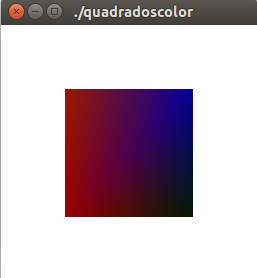
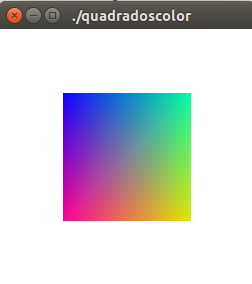
Lab1

Changed region(s): [[0.25, 0.3165, 0.7778, 0.8058], [0.0, 0.0, 1.0, 1.0]]

diff --git a/Lab1.html b/Lab1.html
@@ -828,14 +828,16 @@ Comente a linha glShadeModel(GL_FLAT) para que o feito de degradê possa ser vis
 <pre><code>#include &lt;GL/glut.h&gt;
 #include &lt;stdlib.h&gt;
 #include &lt;stdio.h&gt;
+#include &lt;math.h&gt;
+
+#define PI 3.14159265
 
 void display(void);
 void timer(int);
 void keyboard(unsigned char key, int x, int y);
 
 /* cores do quadrado */
-GLfloat r=1.0, g=0.5, b=0.0;
-
+GLfloat r=1.0, g=0.5, b=0.0, h=0;
 
 int main(int argc, char** argv){
   glutInit(&amp;argc, argv);
@@ -846,33 +848,81 @@ int main(int argc, char** argv){
   // inicia um temporizador. após 33ms ativa a funcao timer
   glutTimerFunc(33, timer, 1);
   glClearColor(1.0, 1.0, 1.0, 0.0);
-  //glShadeModel (GL_FLAT);
   glOrtho (0, 1, 0, 1, -1 ,1);
   glutDisplayFunc(display);
   glutMainLoop();
-
   return 0;
 }
 
 void timer(int value){
-  r=r+0.01;
-  g=g+0.01;
-  b=b+0.01;
-  if(r&gt;1) r=0;
-  if(g&gt;1) g=0;
-  if(b&gt;1) b=0;
+  h=h+1;
+  if(h&gt;359){
+    h=0;
+  }
   glutPostRedisplay();
   glutTimerFunc(33, timer, 1);
+}
+
+double getRadiano(GLfloat h){
+  GLfloat val = PI / 180.0;
+  return (double) h*val;
+}
+
+GLfloat HSI(GLfloat h, int cor, int vertice){
+  GLfloat i=0.6, s=1, raux, gaux, baux, haux;
+  if(h&gt;=360){
+    haux=h-360;
+  }else{
+    haux=h;
+  }
+
+  if(haux&gt;=0 &amp;&amp; haux&lt;120){
+    haux=h;
+    baux=i*(1-s);
+    raux=i*(1+(s*cos(getRadiano(haux))/(cos(getRadiano(60.0-haux)))));
+    gaux=3*i-(raux+baux);
+  }
+  else if(haux&gt;=120 &amp;&amp; haux&lt;240){
+    haux=h-120;
+    raux=i*(1-s);
+    gaux=i*(1+(s*cos(getRadiano(haux))/(cos(getRadiano(60.0-haux)))));
+    baux=3*i-(raux+gaux);
+  }
+  else if(haux&gt;=240){
+    haux=h-240;
+    gaux=i*(1-s);
+    baux=i*(1+(s*cos(getRadiano(haux))/(cos(getRadiano(60.0-haux)))));
+    raux=3*i-(baux+gaux);
+  }
+  if(cor==1){
+    return raux;
+  }
+  else if(cor==2){
+    return gaux;
+  }
+  else{
+    return baux;
+  }
 }
 
 void display(void){
   int i;
   glClear(GL_COLOR_BUFFER_BIT);
+  glColor3f (r, g, b);
   glBegin(GL_POLYGON);
-  glColor3f(r, 0.0, 0.0); glVertex2f(0.25,0.25);
-  glColor3f(0.0, g, 0.0); glVertex2f(0.75,0.25);
-  glColor3f(0.0, 0.0, b); glVertex2f(0.75,0.75);
-  glColor3f(r, g, 0.0); glVertex2f(0.25,0.75);
+
+  glColor3f (HSI(h+180, 1, 3), HSI(h+180, 2, 3), HSI(h+180, 3, 3));
+  glVertex2f(0.25,0.25);
+
+  glColor3f (HSI(h+270, 1, 4), HSI(h+270, 2, 4), HSI(h+270, 3, 4));
+  glVertex2f(0.75,0.25);
+
+  glColor3f (HSI(h, 1, 1), HSI(h, 2, 1), HSI(h, 3, 1));
+  glVertex2f(0.75,0.75);
+
+  glColor3f (HSI(h+90, 1, 2), HSI(h+90, 2, 2), HSI(h+90, 3, 2));
+  glVertex2f(0.25,0.75);
+
   glEnd();
   glFlush();
 }</code></pre>
@@ -895,7 +945,7 @@ void display(void){
 <div id="footnotes"><hr /></div>
 <div id="footer">
 <div id="footer-text">
-Last updated 2015-09-07 05:09:29 BRT
+Last updated 2015-09-07 21:20:27 BRT
 </div>
 </div>
 </body>
